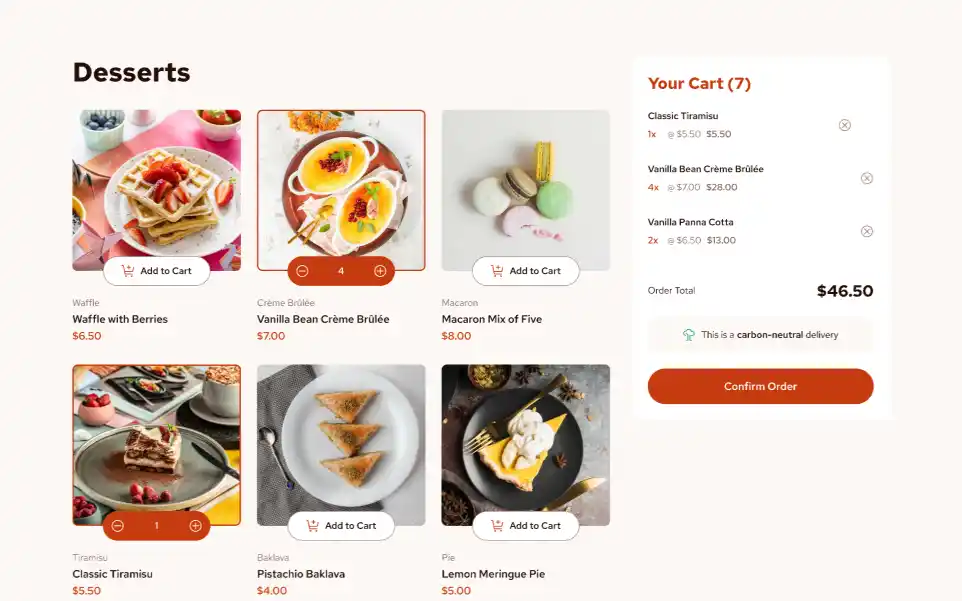
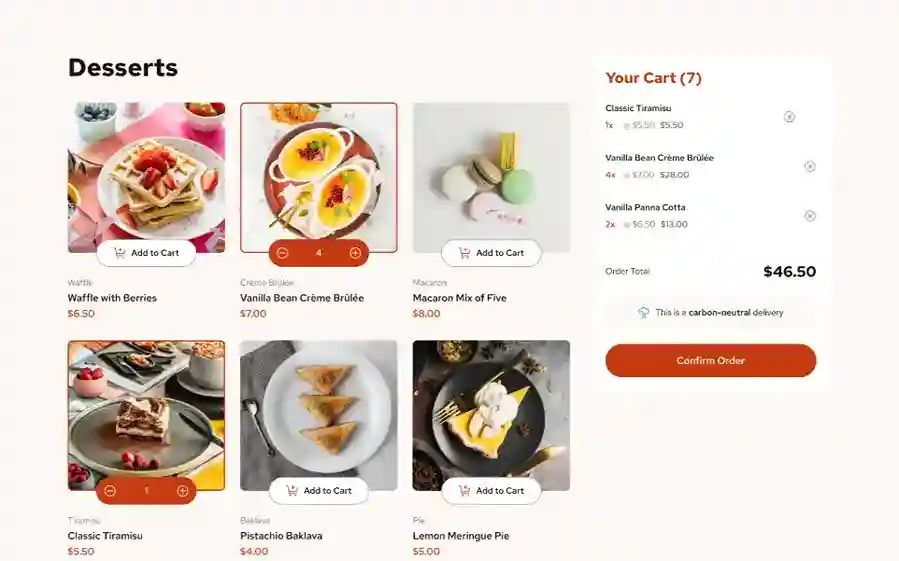
Optimizate images a webp and update index fonts

diff --git a/src/index.css b/src/index.css
@@ -74,6 +74,7 @@
   list-style: none;
   text-decoration: none;
   scroll-behavior: smooth;
+  font-display: swap;
 
   body{
     background-color: var(--colorBG-black);
